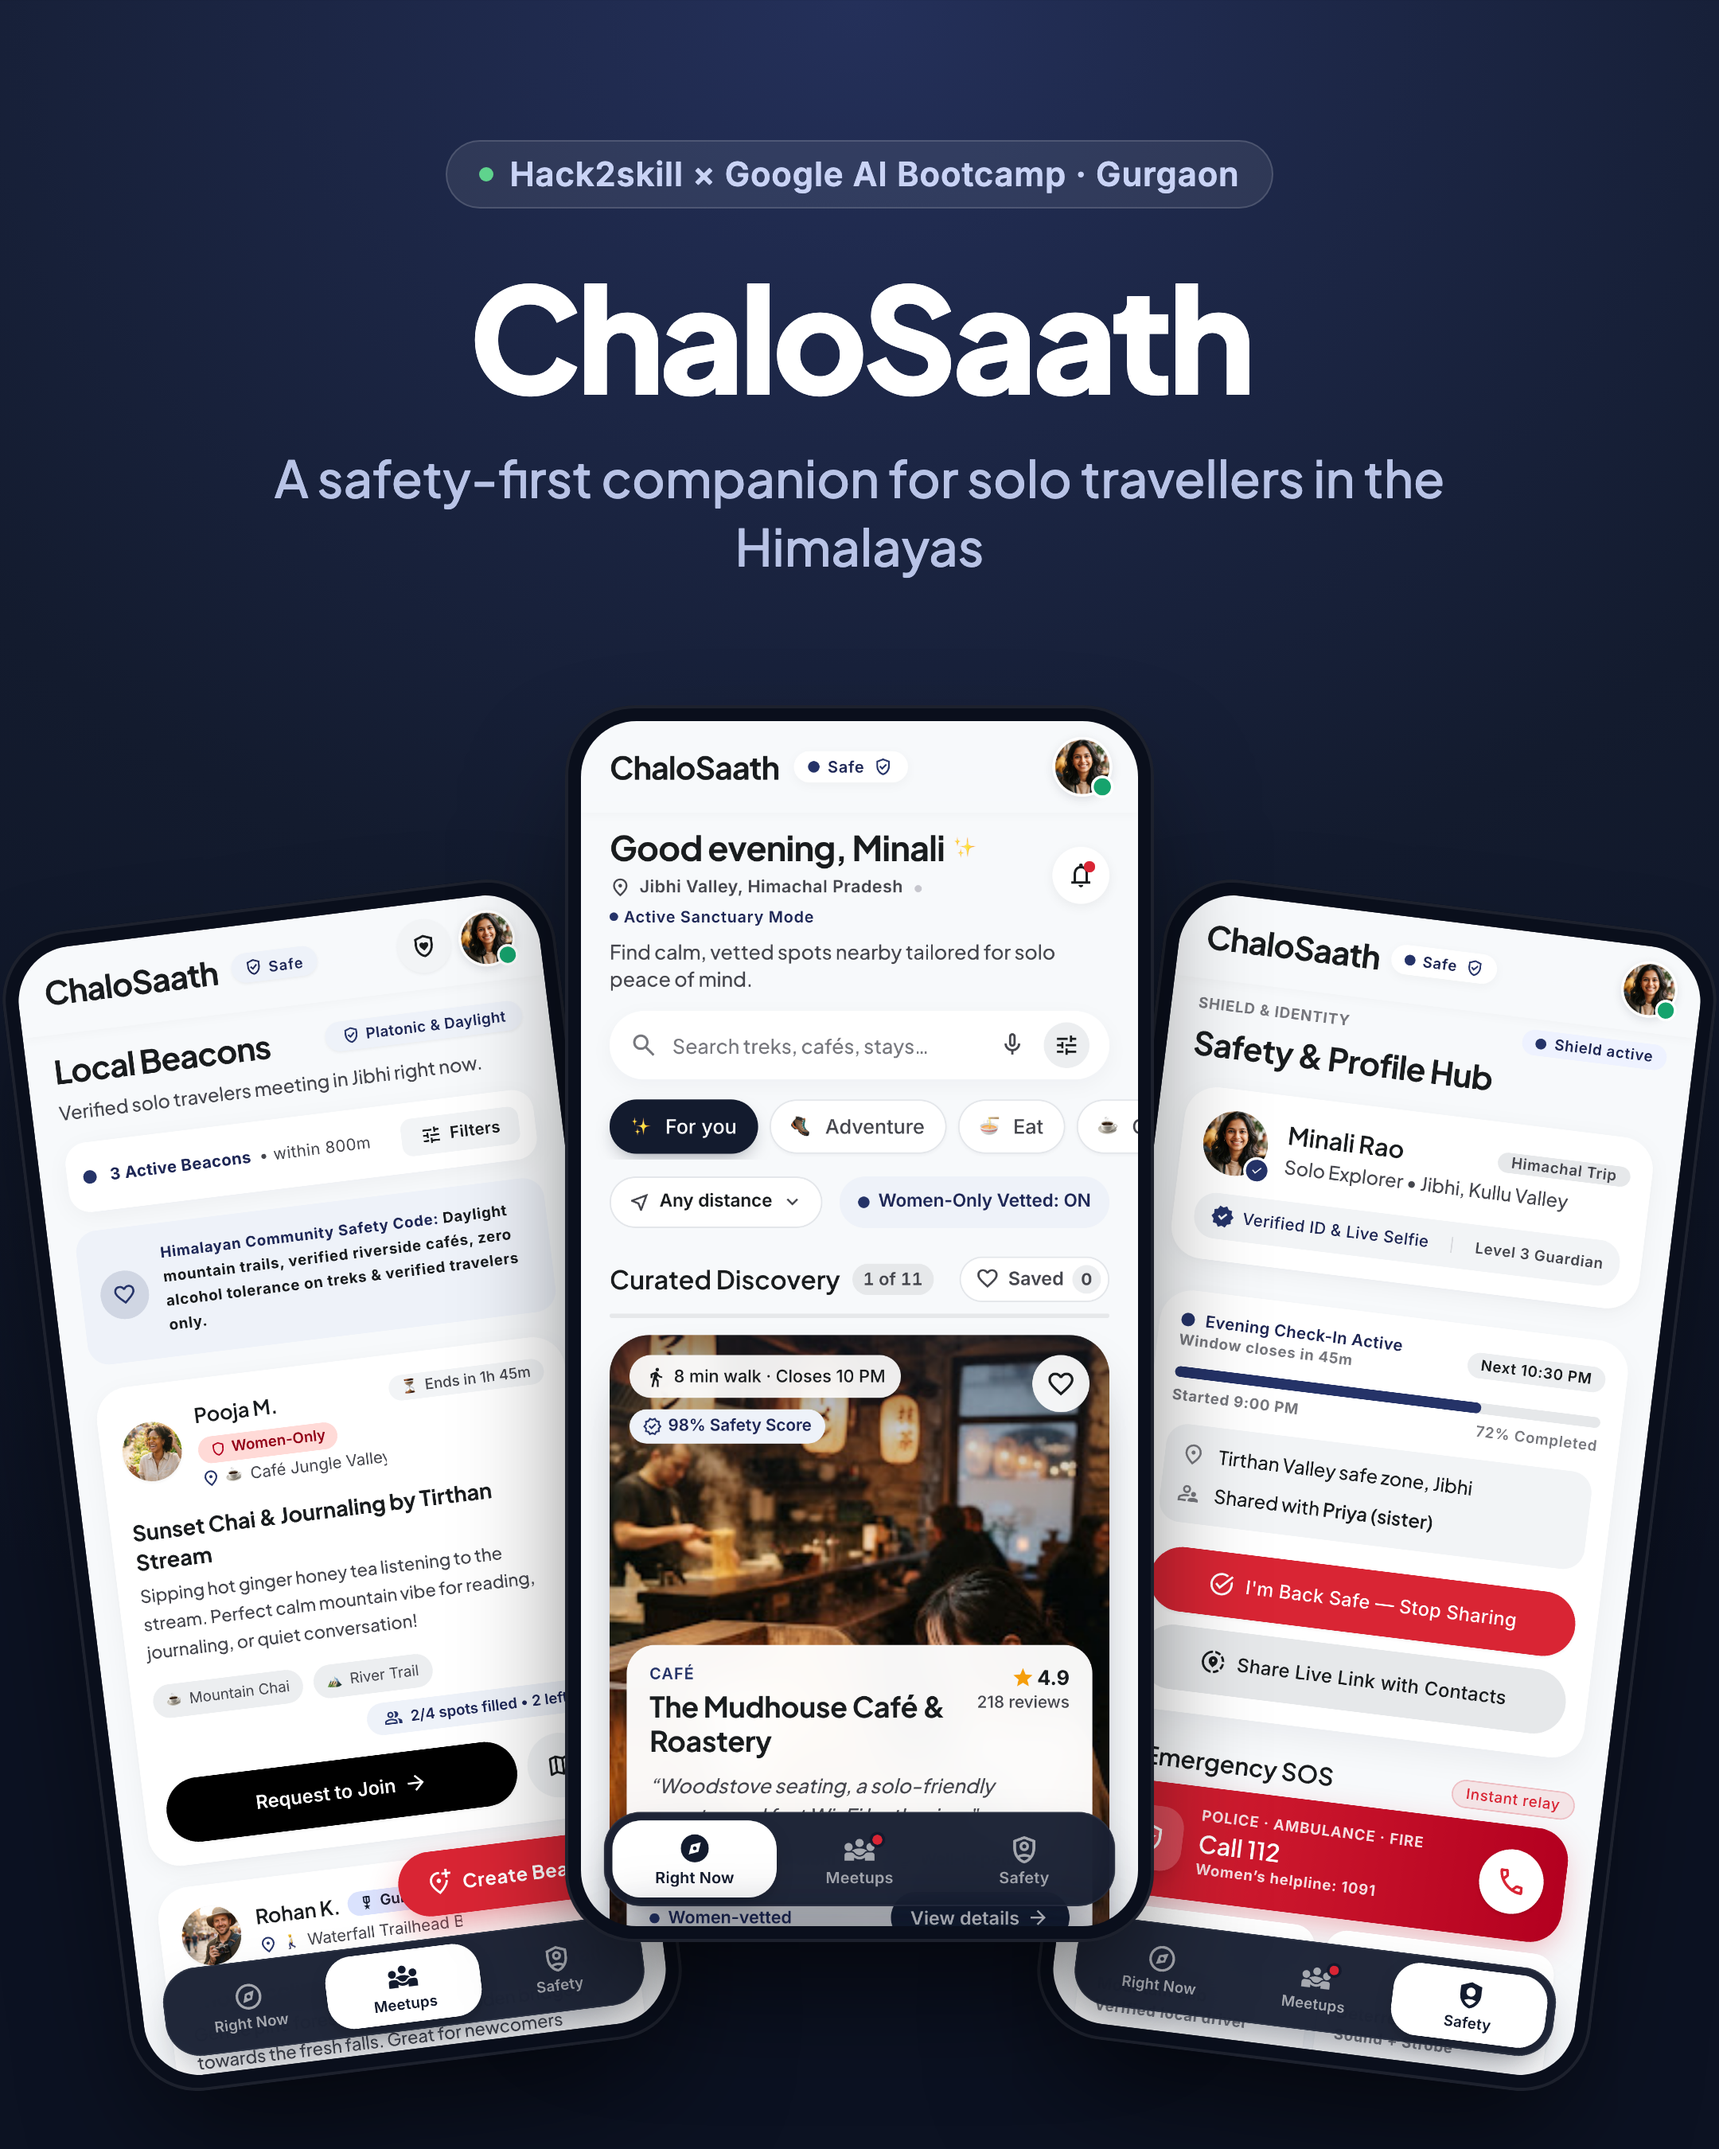
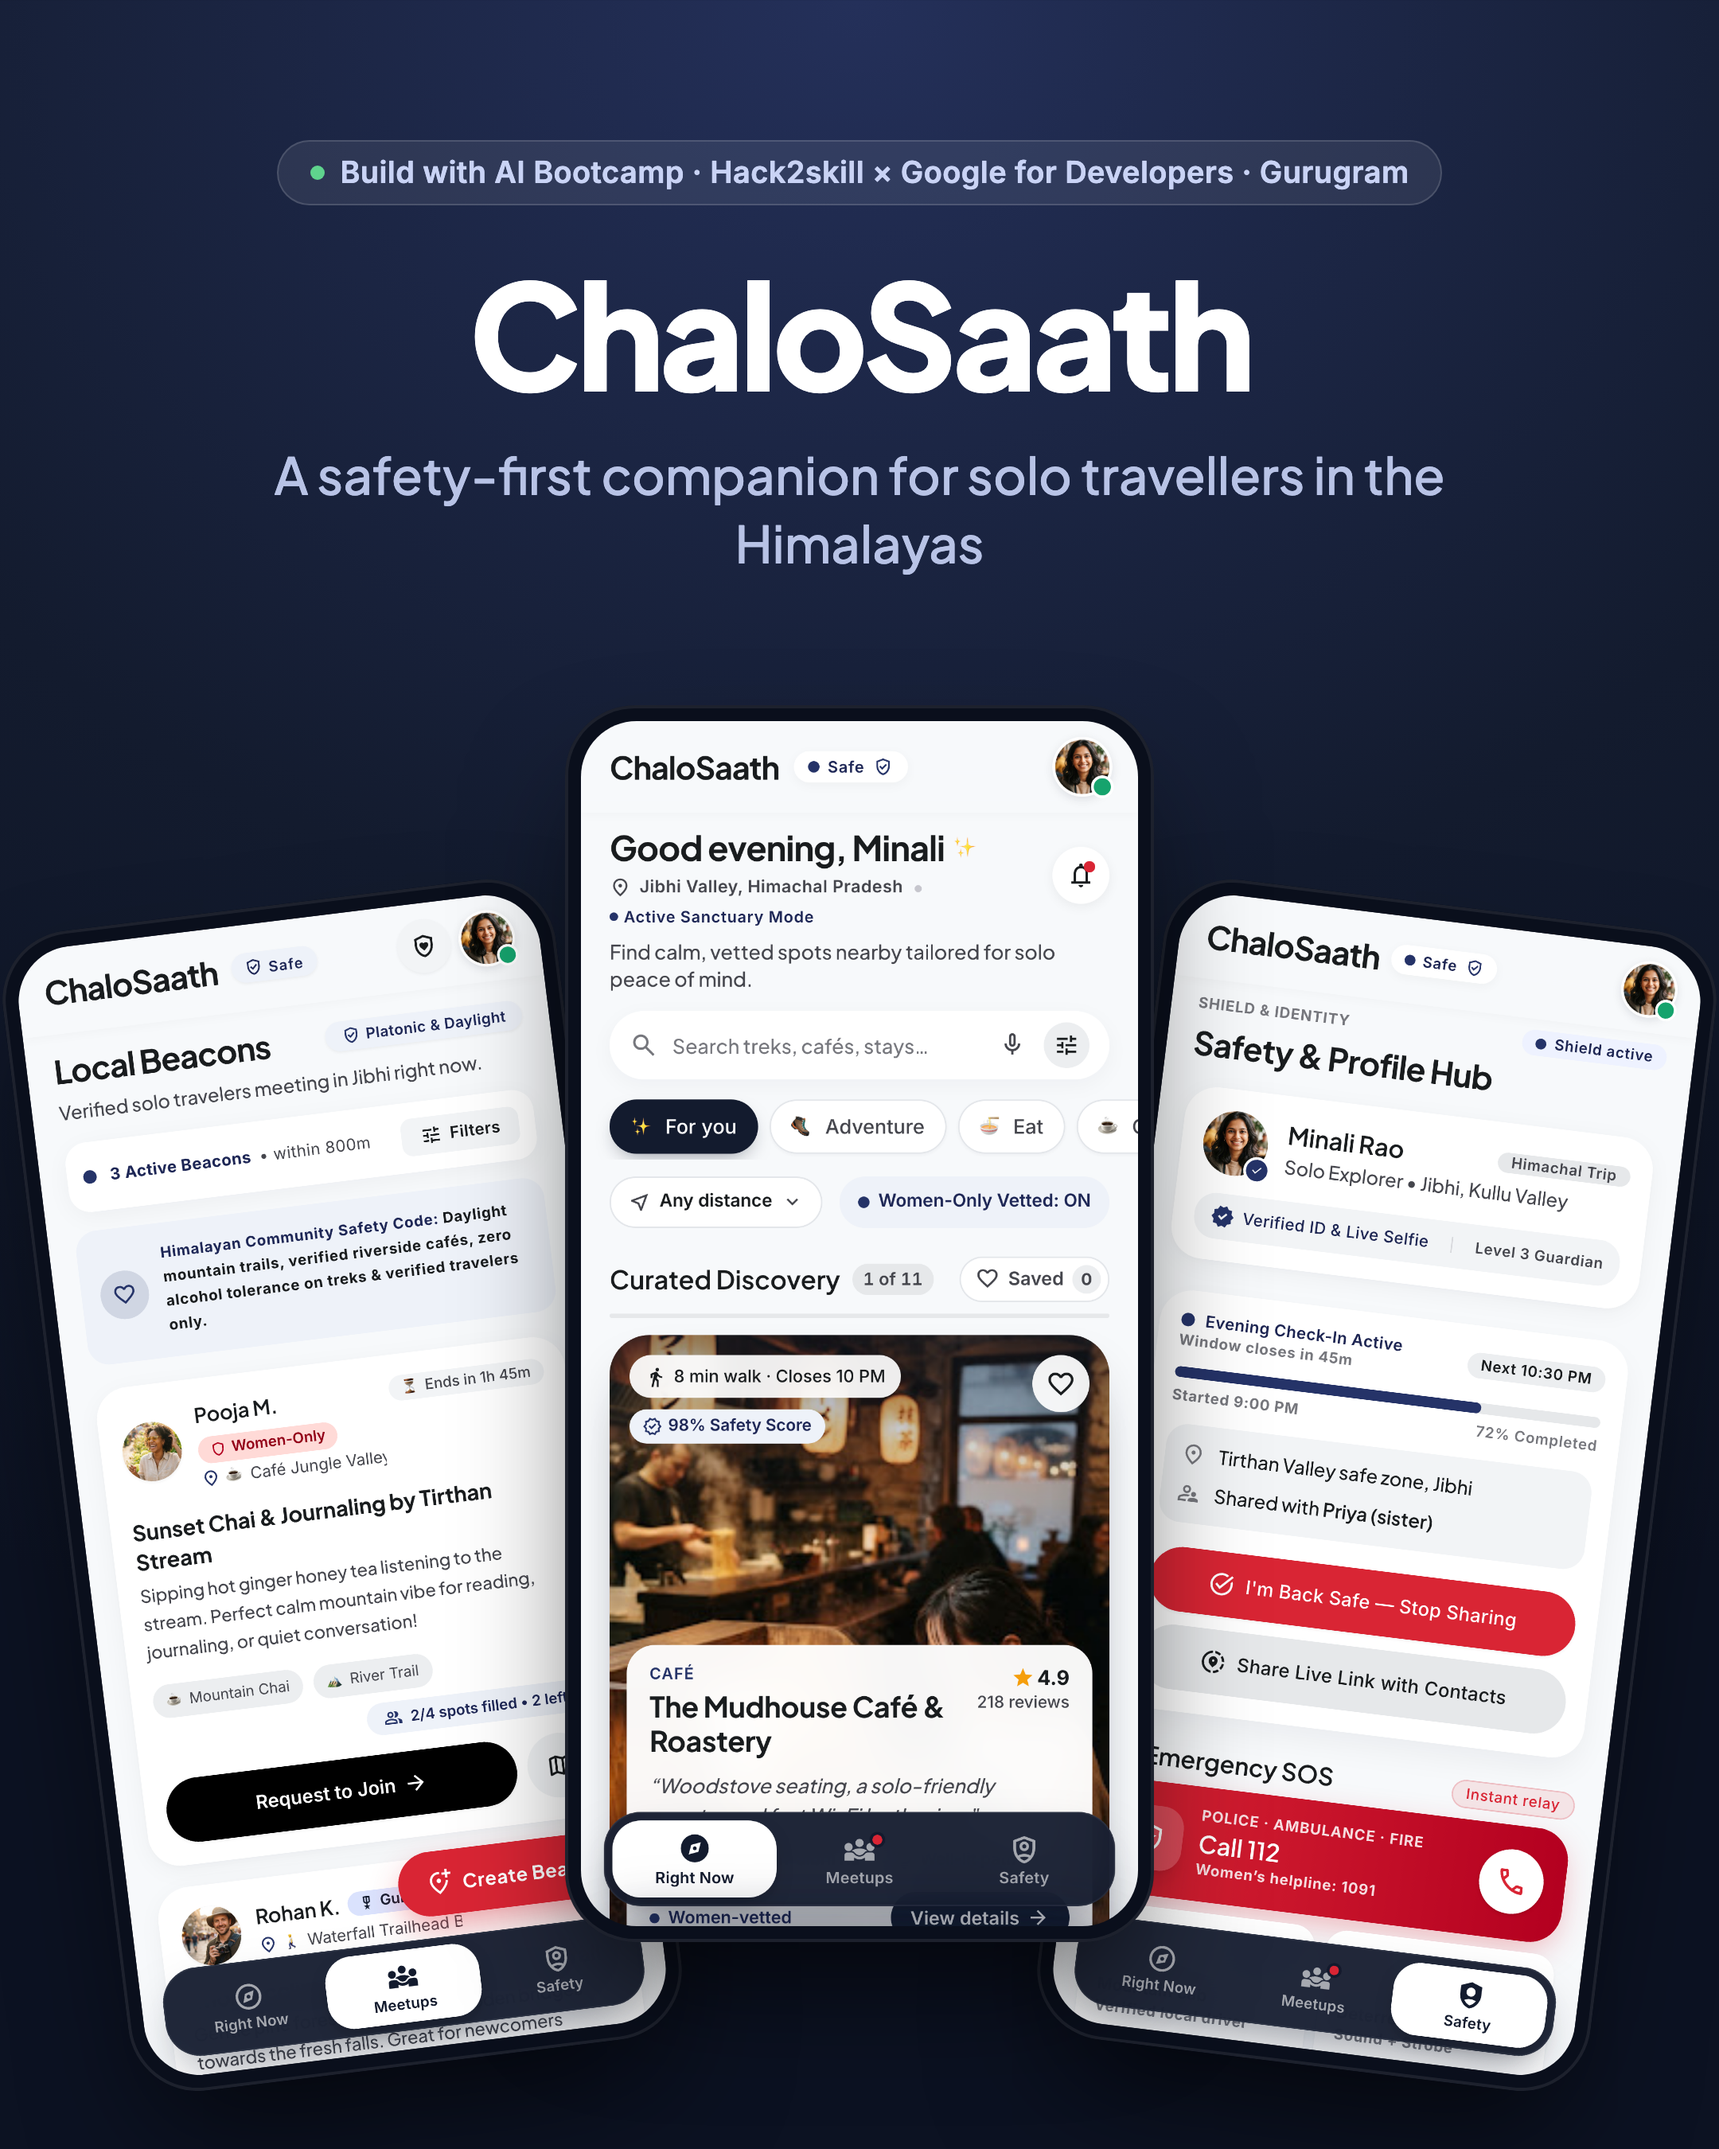
Use the official Build with AI Bootcamp name

diff --git a/README.md b/README.md
@@ -6,7 +6,7 @@ ChaloSaath ("let's go together") helps people travelling alone find places worth
 
 **Live app:** https://chalosaath-4797.web.app
 
-Built at the **Hack2skill × Google AI Bootcamp** in Gurgaon (13 November 2026), under the guidance of **Brahmjit Singh**.
+Built at the [**Build with AI Bootcamp**](https://promptwars.in/bootcamp.html) by Hack2skill and Google for Developers in Gurugram (13 November 2026), under the guidance of **Brahmjit Singh**.
 
 <p align="center">
   <img src="screenshots/right-now.png" width="260" alt="Right Now: swipe to discover spots">&nbsp;
@@ -94,7 +94,7 @@ To deploy to Firebase Hosting, which runs the build and then deploys:
 
 ## Acknowledgements
 
-- **Hack2skill** and the **Google AI Bootcamp** for the programme.
+- **Hack2skill** and **Google for Developers** for the Build with AI Bootcamp.
 - **Brahmjit Singh** for mentorship and guidance throughout the project.
 
 ### Photo credits
